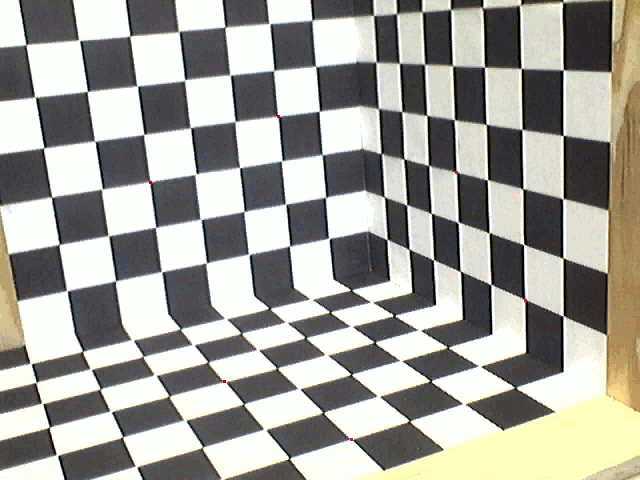
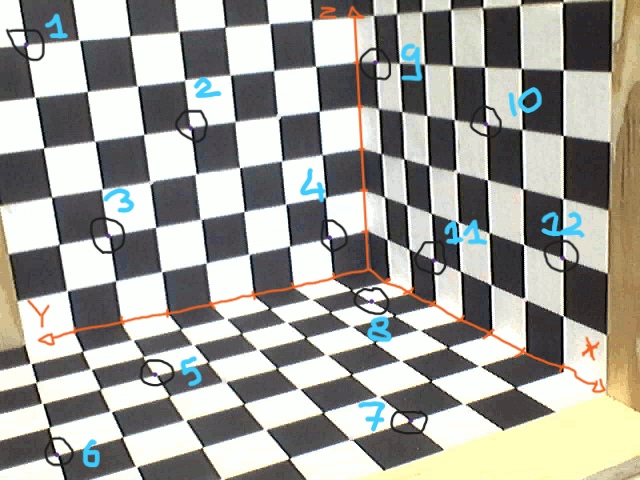
Selection de nouveaux points avec la fonction select_calibration_points

diff --git a/TP1_Vision/tp1.m b/TP1_Vision/tp1.m
@@ -1,51 +1,34 @@
 clc, clear, close all,
 
-% coordonné en image homogenes (2D)
-% MP2 = [ 278 150 224 351 456 525 ;
-%          116 182 381 439 172 300 ;                 %matrice de points en 2D
-%           1   1   1   1   1   1   ];
+if isfile('points_2D.mat')
+    disp('Le fichier existe');
+    S = load("points_2D.mat", 'MP2'); 
+    MP2 = S.MP2;
+else
+    disp('Le fichier n''existe pas');
+    MP2 = select_calibration_points('mire_px.png', 12);
+end
 
-MP2 = [ 460.4579 428.1211 37.0474 153.2579 259.3632 186.6053 ;
+MP2test = [ 460.4579 428.1211 37.0474 153.2579 259.3632 186.6053 ;
         226.3526 119.2368 98.0158 182.9000 349.6368 418.3526 ;                 %matrice de points en 2D
           1   1   1   1   1   1   ];
 
-MP2new = [ 459 240 329 424 89 227;
-           255 168 356  68 93 384;
-           1    1   1   1   1   1 
-    ];
-
-MP2new2 = [ 264 150 273 312 459 525;
-            231 280 333 368 223 300;
-             1    1   1   1   1   1 
-    ];
-% coordonné en espace homogenes (3D)
-% MP3 = [ 0 0 4 7 6 4 ;
-%          2 5 5 4 0 0 ; 
-%          4 3 0 0 1 3 ;
-%          1 1 1 1 1 1 ];                            %matrice de points en 3D
-
-
-
-MP3 = [ 4 3 0 0 3 5 ;
+MP3test = [ 4 3 0 0 3 5 ;
         0 0 7 5 4 6 ; 
         2 4 5 3 0 0 ;
         1 1 1 1 1 1 ];  
 
-MP3new = [ 4 0 3 2 0 6;
-           0 3 4 0 5 4;
-           2 3 0 5 6 0;
-           1 1 1 1 1 1 ]; 
+MP3 = [ 0 0 0 0 3 5 7 2 1 5 3 7;
+        7 4 6 1 6 8 3 1 0 0 0 0; 
+        6 4 2 1 0 0 0 0 5 4 1 2;
+        1 1 1 1 1 1 1 1 1 1 1 1];  
 
-MP3new2 = [ 0  0 3   5   4 6;
-           2.5 5 4.5 3.5 0 0;
-           1.5 3 0   0   2 1
-           1   1 1   1   1 1 ]; 
+% MP2 = MP2(:, [1:6, 8:end]);
+% MP3 = MP3(:, [1:6, 8:end]);
 
-%MP2 = [MP2new2];
-%MP3 = [MP3new2];
 
 %Méthode de normalisation 2
-[MP2norm,MP3norm, T, U] = funct_methode2(MP2,MP3);
+[MP2norm,MP3norm, T, U] = funct_methode2(MP2test,MP3test);
 
 
 
@@ -79,5 +62,4 @@ Pnorm = [v1(1) v1(2) v1(3) v1(4);
 
 %Dénormaliser la solution :
 funct_verification(Pnorm,T, U, MP2, MP3);
-
-%funct_verification(Pnorm, T, U, MP21, MP31);
+funct_verification(Pnorm, T, U, MP2test, MP3test);

diff --git a/TP1_Vision/select_calibration_points.m b/TP1_Vision/select_calibration_points.m
@@ -1,0 +1,51 @@
+function MP2 = select_calibration_points(image_path, n_points)
+    
+    
+    % Charger l'image
+    img = imread(image_path);
+    % Afficher avec zoom
+    figure('Position', [100, 100, 1200, 800]);
+    imshow(img);
+    title('Sélection des points - Utilisez le zoom si nécessaire');
+    
+    
+    % Sélectionner les points
+    fprintf('\nCliquez sur %d points (coins des carrés)\n', n_points);
+    fprintf('Appuyez sur Entrée après chaque clic\n\n');
+    
+    x = zeros(n_points, 1);
+    y = zeros(n_points, 1);
+    
+    hold on;
+    for i = 1:n_points
+    
+        zoom on; % Activer le zoom
+        disp('Zoomez sur la zone d''intérêt, puis pressez Entrée');
+        pause; % Attendre que l'utilisateur zoome
+        fprintf('Point %d - ', i);
+        [xi, yi] = ginput(1);
+        x(i) = xi;
+        y(i) = yi;
+        
+        % Afficher le point et son numéro
+        plot(xi, yi, 'r+', 'MarkerSize', 15, 'LineWidth', 2);
+        text(xi+10, yi-10, sprintf('%d', i), 'Color', 'yellow', ...
+             'FontSize', 12, 'FontWeight', 'bold');
+        
+        fprintf('Coordonnées (%.2f, %.2f)\n', xi, yi);
+    end
+    
+    % Créer MP2
+    MP2_pixel = [x'; y'; ones(1, n_points)];
+    % hauteur = size(img, 1);
+    % MP2 = pixels_to_cartesian( MP2_pixel, hauteur );
+    MP2 = MP2_pixel;
+
+
+    
+    % Sauvegarder
+    save('points_2D.mat', 'MP2');
+    disp(' ');
+    disp('Matrice MP2 sauvegardée dans points_2D.mat');
+    disp(MP2);
+end 
